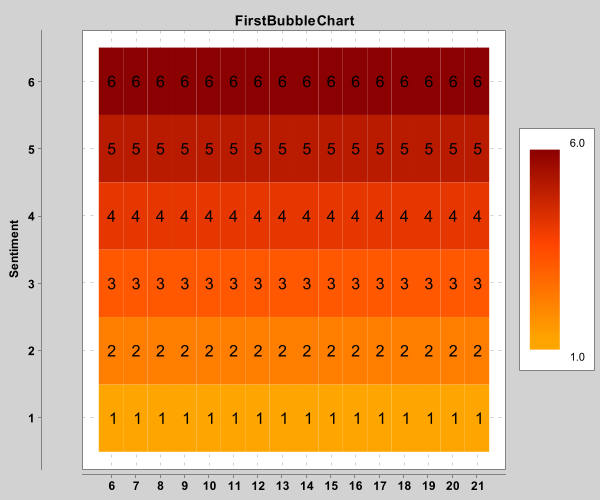
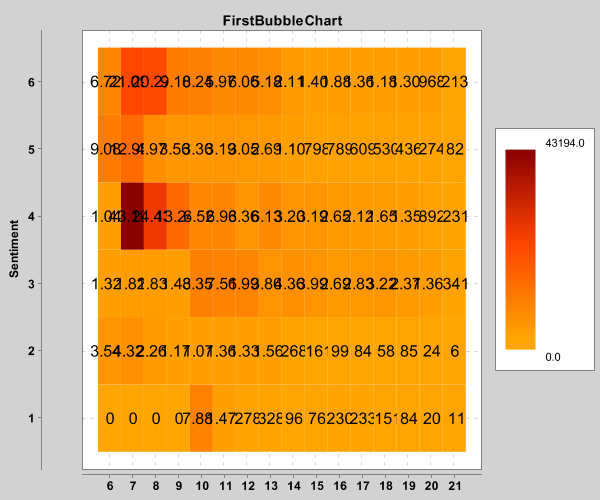
Heatmap BugFix

diff --git a/src/capitolriot/Preprocessor.java b/src/capitolriot/Preprocessor.java
@@ -116,19 +116,18 @@ public class Preprocessor {
 	
 	public int[][] tweetPerHashtagPerDayArray(String directoryPath) {
 		/**Calculates number of tweets per hashtag per day. 
-		 * Returns a list of int arrays, each array for one hashtag, every int for an amount.
+		 * Returns an array of int arrays, each array for one day, every int for an amount of tweets.
 		 * Receives path of directory containing the files to analyze.
 		 */
 		
-		int[][] scores = new int[6][dates.length];
+		int[][] scores = new int[dates.length][6];
 		File directory = new File(directoryPath);
+		int fileCounter = 0;
 		
 		//run avgSentimentScore for every file in directory and store in list
 		for (File JSONfile : directory.listFiles()) {
-			System.out.println();
-			
-			int[] count = new int[dates.length];
-			int counter = 0;
+			System.out.println(JSONfile.getAbsolutePath());
+
 			JSONArray data = AppIO.readJson(JSONfile.getAbsolutePath());
 			
 			//for every tweet
@@ -140,16 +139,16 @@ public class Preprocessor {
 				int date = Integer.parseInt(dateString);
 
 				//count number of tweets
-				count[date-6] += 1;
+				scores[date-6][fileCounter] += 1;
 			}
-			scores[counter] = count;
-			counter +=1;
+			
+			fileCounter++;
 		}	
 		
-		
 		//print results
-		for (int[] i : scores) 
-			for (int j : i) System.out.println(j);
+		for (int[] i : scores) Arrays.toString(i);
+			//for (int j : i) System.out.println(j);
+		
 		
 
 		return scores;

diff --git a/src/capitolriot/CapitolRiotMain.java b/src/capitolriot/CapitolRiotMain.java
@@ -8,7 +8,7 @@ public class CapitolRiotMain {
 	static String path = "C:\\Users\\solemn\\Documents\\UNI\\JAVA\\wise2021\\SenScore_total.json";
 
 	// TODO replace with path to local directory containing files with SenScores
-	static String directoryPath = "C:\\Users\\solemn\\Documents\\UNI\\JAVA\\wise2021\\sentscores";
+	static String directoryPath = "D:/ASM_Data/SenScore";
 
 	public static void main(String[] args) {
 		GraphCreator graphy = new GraphCreator();
@@ -25,7 +25,7 @@ public class CapitolRiotMain {
 				{ 1, 2, 3, 4, 5, 6 }, { 1, 2, 3, 4, 5, 6 }, { 1, 2, 3, 4, 5, 6 }, { 1, 2, 3, 4, 5, 6 },
 				{ 1, 2, 3, 4, 5, 6 }, { 1, 2, 3, 4, 5, 6 }, { 1, 2, 3, 4, 5, 6 }, { 1, 2, 3, 4, 5, 6 }, };
 		//display HeatMap (tweetcount for all hashtags)
-		graphy.displayHeatMap(intdates, test);
+		graphy.displayHeatMap(intdates, pre.tweetPerHashtagPerDayArray(directoryPath));
 
 		// display average sentiments for all hashtags
 		double[] sents = pre.avgSentimentDay(path);
